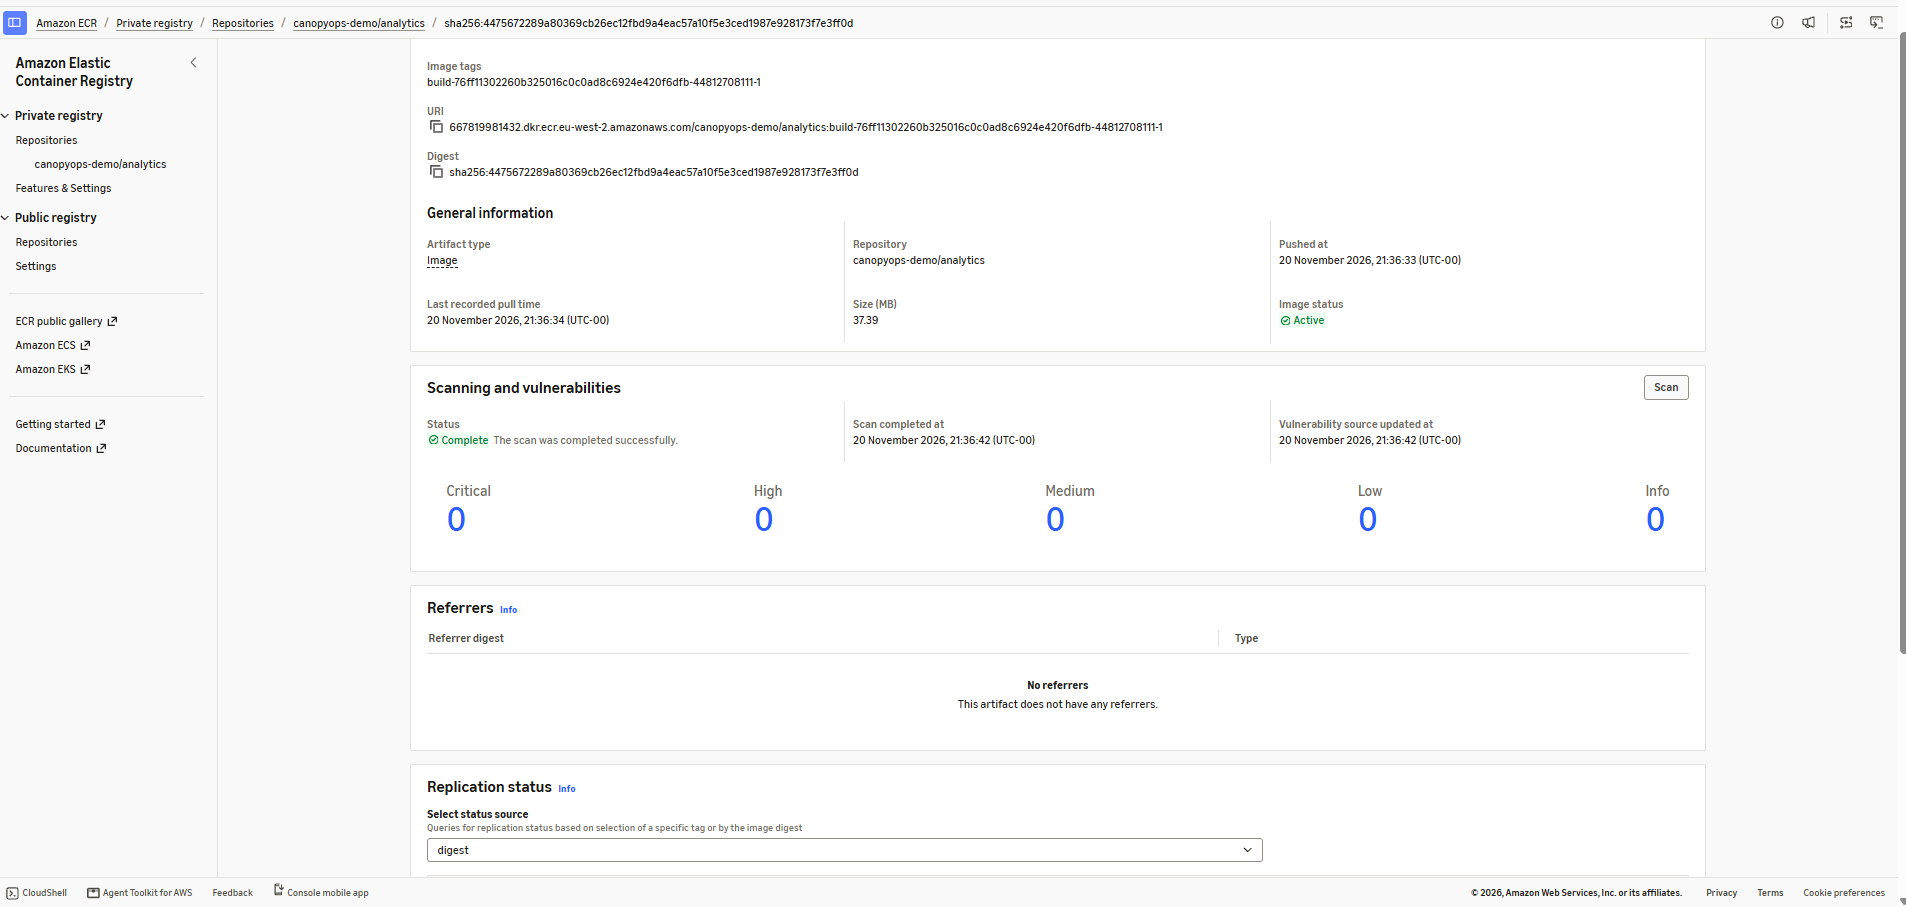
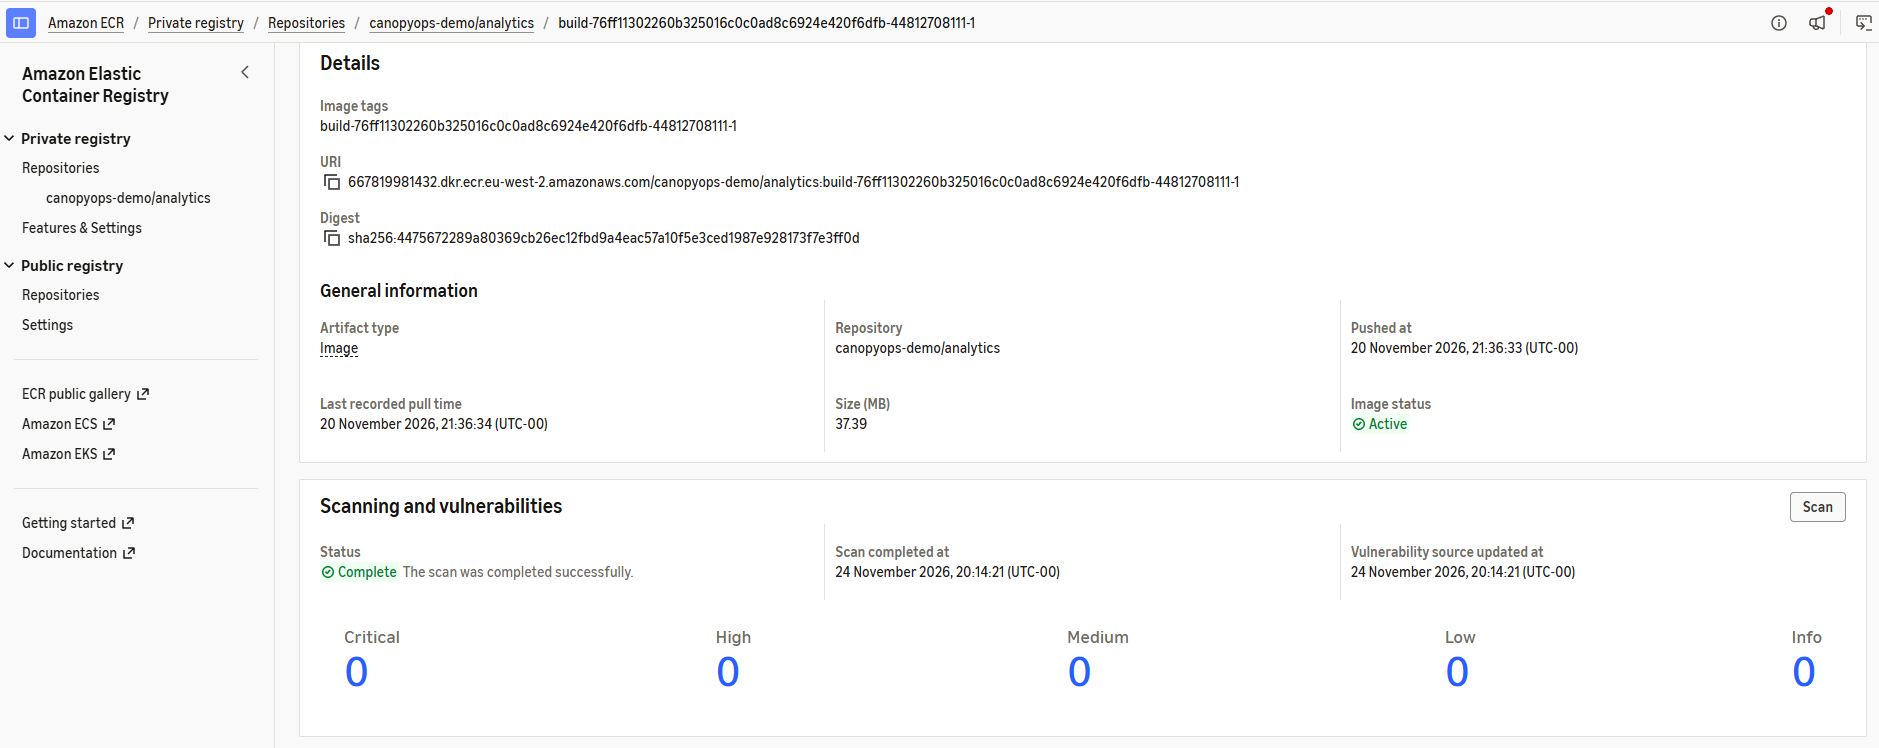
docs: refresh pinned ECR scan evidence for 24 November (#45)

diff --git a/README.md b/README.md
@@ -2380,23 +2380,23 @@ completed successfully on `main`, source commit
 repository, tag, full digest, scan status, scan/source-update timestamps and counts.
 The files were copied without cropping or changing their pixels.
 
-| Component | Original screenshot | Scan completed (20 November 2026, UTC) | HIGH | CRITICAL |
+| Component | Original screenshot | Scan completed (24 November 2026, UTC) | HIGH | CRITICAL |
 | --- | --- | --- | ---: | ---: |
-| API | [Image identity and scan](docs/evidence/ecr/44812708111-1/api-scan.png) | 21:36:39 | 0 | 0 |
-| Worker | [Image identity and scan](docs/evidence/ecr/44812708111-1/worker-scan.png) | 21:37:08 | 0 | 0 |
-| Analytics | [Image identity and scan](docs/evidence/ecr/44812708111-1/analytics-scan.png) | 21:36:42 | 0 | 0 |
+| API | [Image identity and scan](docs/evidence/ecr/44812708111-1/api-scan.png) | 20:14:47 | 0 | 0 |
+| Worker | [Image identity and scan](docs/evidence/ecr/44812708111-1/worker-scan.png) | 20:15:11 | 0 | 0 |
+| Analytics | [Image identity and scan](docs/evidence/ecr/44812708111-1/analytics-scan.png) | 20:14:21 | 0 | 0 |
 
 All three scans show `Complete`; medium, low and informational counts are also
 zero in these captures. This is point-in-time console evidence, not continuous
 coverage, a guarantee of no vulnerabilities, or proof of ECS deployment.
 
-**Release selection is a separate change.** At this evidence-only milestone,
-`infra/deployment.json` still pins publishing run `44744564031`, not this captured
-release. Before selecting the new images, verify the selected publishing manifest,
-update all three digest pins and the release identity together through a focused
-PR, pass CI and generate a fresh protected Terraform plan. Keep services stopped,
-ingestion fenced and Redis deferred. Recheck scan freshness, account spend and the
-12?24-hour rehearsal/teardown window before a separate deployment approval.
+These captures replace the earlier 20 November screenshots; the image digests
+and publishing release are unchanged. The selected deployment inputs already pin
+this release. This evidence refresh changes no application or Terraform inputs.
+Keep services stopped, ingestion fenced and Redis deferred until migration checks
+pass. Review a current protected plan and account spend before deployment, and
+complete the separately approved teardown within two hours of provisioning
+starting. Retained resources and recovery artifacts may continue to incur costs.
 
 
 ### Selected application release: 44812708111, attempt 1
